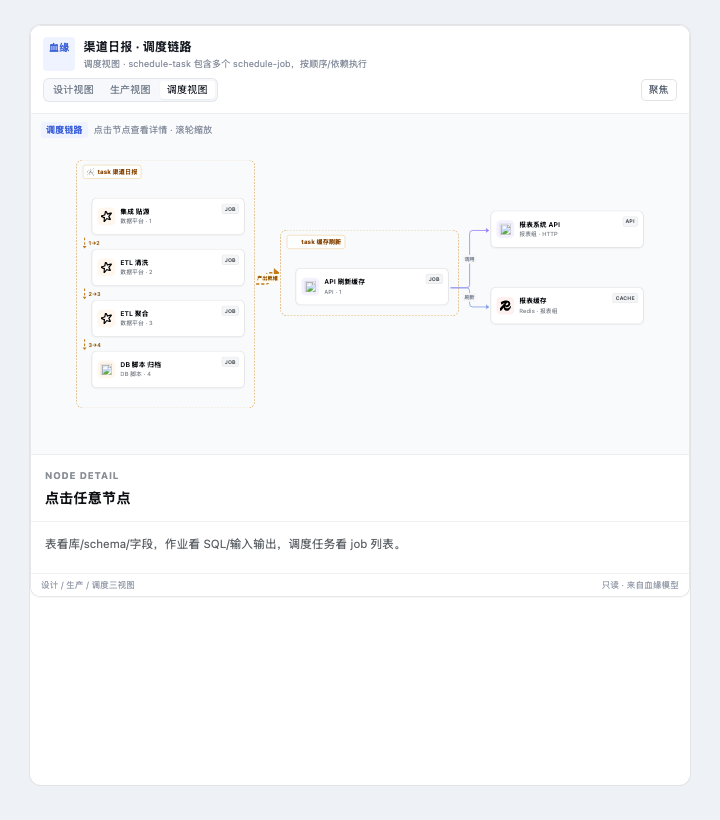
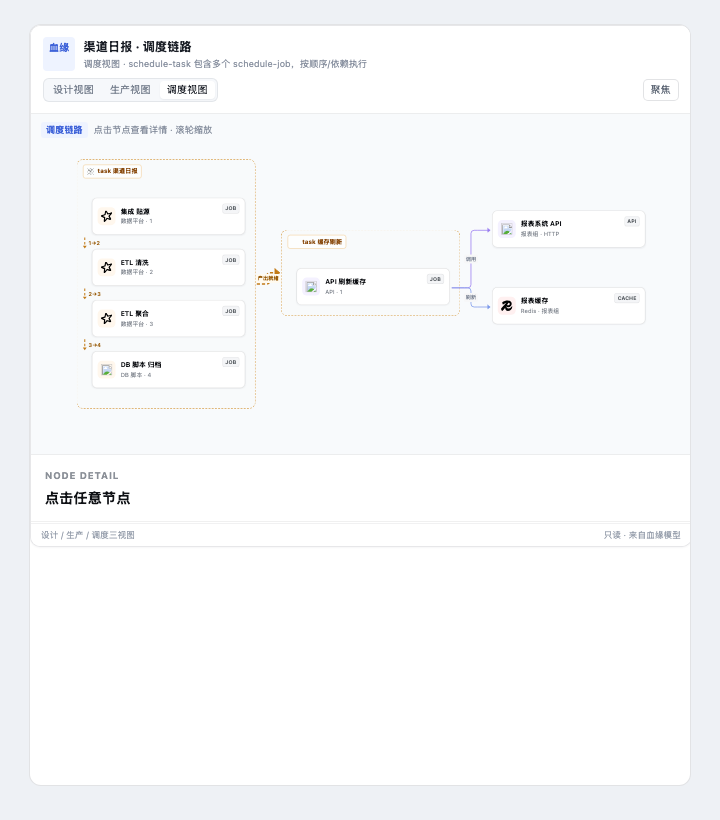
fix: bound lineage surface to card dimensions

diff --git a/packages/dataops-client/assets/lineage/workbench.css b/packages/dataops-client/assets/lineage/workbench.css
@@ -103,9 +103,9 @@
 @media (max-width:980px){.do-workbench-overlay .body{grid-template-columns:1fr}
 .do-workbench-overlay .detail{display:none}}
 /* Embedded lineage surface: compact / focus three-view card */
-.do-lineage-surface{container-type:inline-size;display:flex;flex-direction:column;min-height:420px;max-height:calc(100vh - 130px);border:1px solid rgba(15,23,42,.1);border-radius:10px;background:#fff;overflow:hidden;box-shadow:0 1px 2px rgba(15,23,42,.04)}
-.do-lineage-surface[data-density="focus"]{min-height:560px;max-height:calc(100vh - 90px)}
-.do-surface-head{display:flex;align-items:flex-start;gap:10px;padding:11px 12px;border-bottom:1px solid rgba(15,23,42,.08);flex:none;background:#fff}
+.do-lineage-surface{container-type:inline-size;display:flex;flex-direction:column;width:min(100%,720px);height:min(520px,calc(100vh - 160px));min-height:420px;max-height:560px;margin:0 auto;border:1px solid rgba(15,23,42,.1);border-radius:10px;background:#fff;overflow:hidden;box-shadow:0 1px 2px rgba(15,23,42,.04)}
+.do-lineage-surface[data-density="focus"]{width:min(100%,900px);height:min(680px,calc(100vh - 130px));min-height:560px;max-height:calc(100vh - 130px)}
+.do-surface-head{position:sticky;top:0;z-index:4;display:flex;align-items:flex-start;gap:10px;padding:11px 12px;border-bottom:1px solid rgba(15,23,42,.08);flex:none;background:#fff}
 .do-surface-title{display:flex;gap:8px;min-width:0}
 .do-surface-mark{flex:none;font-size:10px;line-height:20px;padding:0 6px;border-radius:4px;background:#eef3ff;color:#3f63d9;font-weight:600}
 .do-surface-title strong{display:block;font-size:12px;line-height:20px;color:#1b1f27;white-space:nowrap;overflow:hidden;text-overflow:ellipsis;max-width:260px}

diff --git a/packages/dataops-client/src/cards.js b/packages/dataops-client/src/cards.js
@@ -222,7 +222,7 @@ export function createDataopsCards(React) {
     '.do-doc-muted{font-size:10px;color:var(--dsw-alias-label-tertiary,#8b93a2)}',
     '.do-doc-types{display:flex;gap:4px;flex-wrap:wrap;margin-top:4px}',
     '.do-doc-type{font-size:8px;line-height:15px;padding:0 5px;border-radius:3px;background:var(--dsw-alias-bg-overlay,#eef0f5);color:var(--dsw-alias-label-secondary,#61666b);font-family:ui-monospace,Menlo,monospace}',
-    '.do-lineage-inline{padding:2px 0 12px}',
+    '.do-lineage-inline{display:flex;justify-content:center;padding:12px 10px 16px;background:var(--dsw-alias-bg-l2,#f7f8fa)}',
     '.do-lineage-inline > .do-label{margin-bottom:7px}',
     '.do-sched-card{display:grid;grid-template-columns:minmax(0,1fr);gap:7px;margin-top:4px;min-width:0}',
     '.do-sched-card[data-density="focus"]{grid-template-columns:minmax(0,1fr) 210px;align-items:stretch;min-height:330px}',
